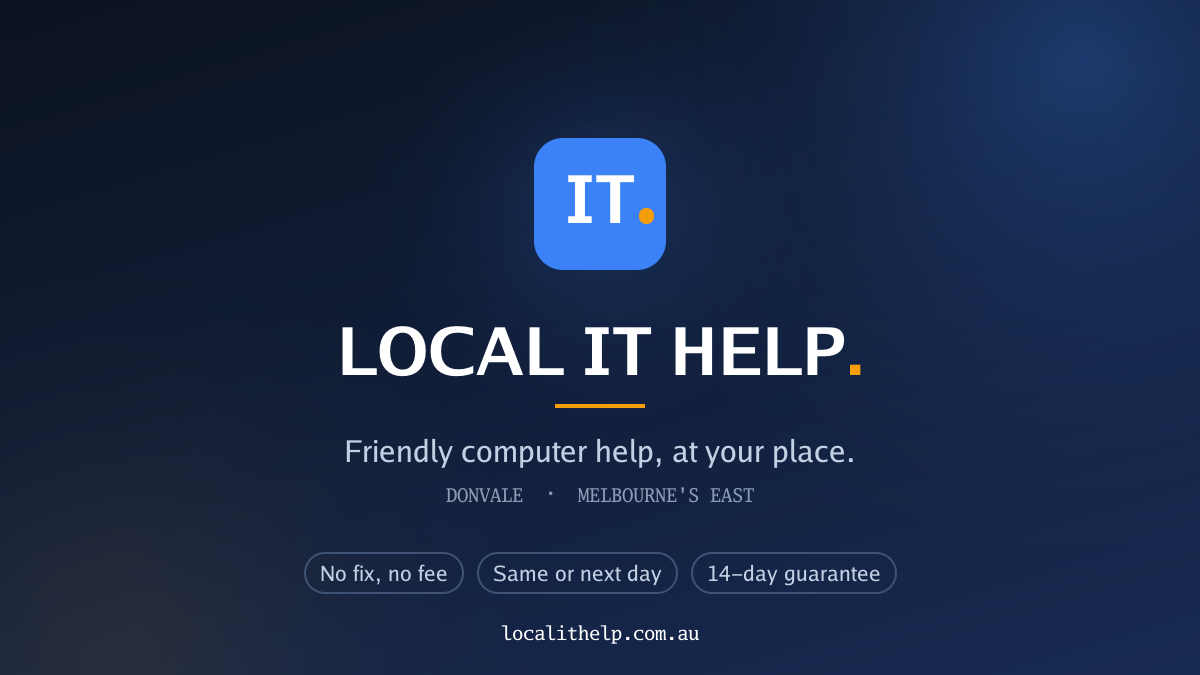
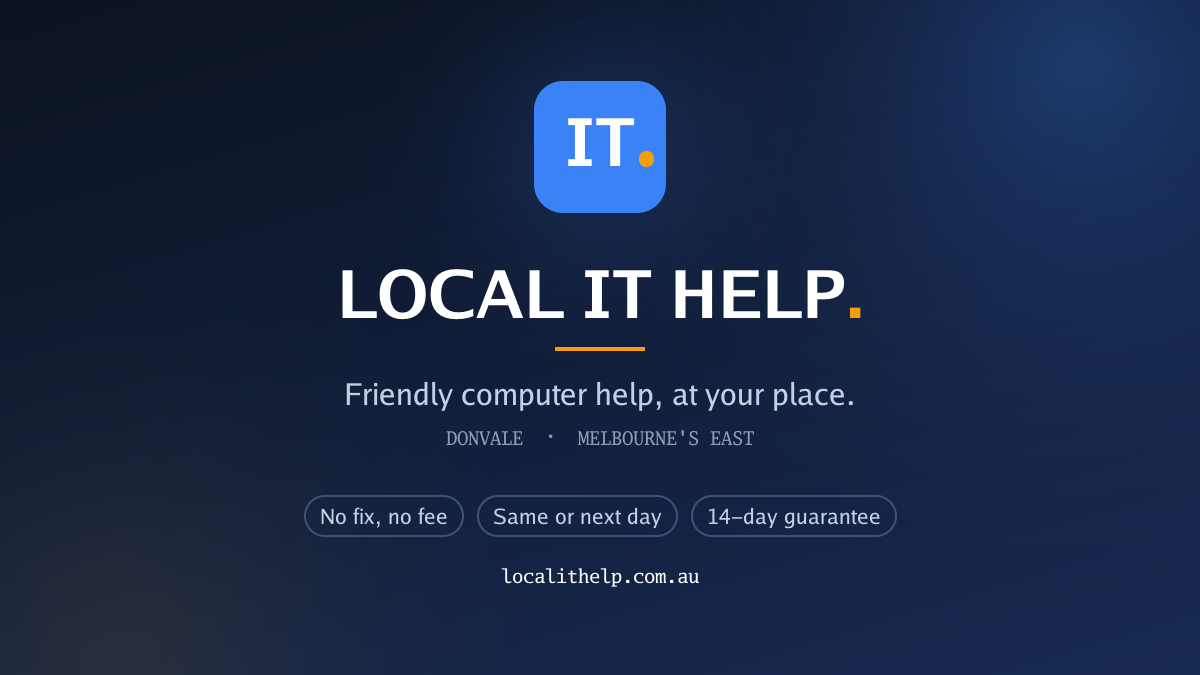
Square image: share the cover's lockup
Photo slot was still the old light left-aligned card with three lines of
services, which looked nothing like the new cover beside it in the same
profile.

Extract brandPlate() so both draw one centred lockup, measured and
centred as a block so it sits right on either canvas shape. The square
runs it at 1.55x — photos are usually seen small, as a thumbnail.

mustFit() now takes the budget rather than reading a cover-only const,
and guards the stack height too. The two slots crop in opposite
directions: a square crop of the 16:9 cover keeps the full height and
only 675px of width, while a 4:3 crop of the square keeps the full width
and only 900px of height.

Changed region(s): [[0.2775, 0.0933, 0.74, 0.6844], [0.2467, 0.7156, 0.74, 0.8711], [0.4317, 0.9333, 0.5858, 0.9644]]

diff --git a/tools/genassets/main.go b/tools/genassets/main.go
@@ -276,74 +276,111 @@ func textC(dst draw.Image, fc font.Face, s string, cx, y int, col color.Color) i
 	return text(dst, fc, s, cx-textWidth(fc, s)/2, y, col)
 }
 
-// coverSafe is the widest any cover element may be. Google Business Profile
-// re-crops the cover per surface, and the worst case is a centred square, which
-// of a 1200×675 image keeps only the middle 675px. Everything is held inside
-// that column with a margin, so no crop can clip a word.
-const coverSafe = 620
-
-// coverImage is the 16:9 cover, sized for Google Business Profile. Unlike
-// ogImage — a link-preview card that is only ever shown whole — this is a
-// full-bleed piece: no card, no border, nothing near an edge that a crop could
-// slice through and leave looking broken.
-func coverImage() *image.RGBA {
-	const W, H = 1200, 675
-	img := image.NewRGBA(image.Rect(0, 0, W, H))
-	gradient(img, navyTop, navyBot)
-	softGlow(img, 1080, 60, 560, brandLt, 0.30)
-	softGlow(img, 120, 660, 480, accentLt, 0.10)
-	softGlow(img, W/2, 205, 250, brandLt, 0.22) // halo behind the mark
-
+// brandPlate draws the centred brand lockup — mark, wordmark, rule, strapline,
+// locality, promise chips and domain — full-bleed on a dark gradient field.
+// Cover and photo differ only in canvas shape and scale, so they share it.
+//
+// safeW and safeH are the narrowest and shortest crops the slot can take, less
+// a margin: everything is held inside them so no crop can clip a word. Google
+// Business Profile re-crops per surface, so nothing is drawn near an edge
+// either — a crop that sliced through a card border would look broken.
+func brandPlate(img *image.RGBA, scale float64, safeW, safeH int) {
+	W, H := img.Bounds().Dx(), img.Bounds().Dy()
 	cx := W / 2
-	kicker := face(gomono.TTF, 19)
-	title := face(gobold.TTF, 66)
-	sub := face(goregular.TTF, 30)
-	small := face(goregular.TTF, 21)
+	s := func(v int) int { return int(float64(v)*scale + 0.5) }
 
-	// The mark, big and centred — the cover is the one slot with room for it.
-	const mark = 132
-	m := iconTile(mark, brandLt, accentLt)
-	draw.Draw(img, image.Rect(cx-mark/2, 138, cx+mark/2, 138+mark), m, image.Point{}, draw.Over)
+	gradient(img, navyTop, navyBot)
+	softGlow(img, float64(W)*0.90, float64(H)*0.09, float64(W)*0.47, brandLt, 0.30)
+	softGlow(img, float64(W)*0.10, float64(H)*0.98, float64(W)*0.40, accentLt, 0.10)
+
+	kicker := face(gomono.TTF, 19*scale)
+	title := face(gobold.TTF, 66*scale)
+	sub := face(goregular.TTF, 30*scale)
+	small := face(goregular.TTF, 21*scale)
+
+	// Offsets down from the top of the mark, at scale 1. The block is measured
+	// and centred as a whole, so it sits right on any canvas shape.
+	const (
+		markH   = 132
+		wordY   = 237 // baselines
+		ruleY   = 266
+		subY    = 324
+		kickY   = 364
+		chipY   = 414 // top of the chip row
+		chipH   = 42
+		domainY = 502
+		stackH  = 512
+	)
+	mustFit(s(stackH), safeH, "stack height")
+	top := (H - s(stackH)) / 2
+	at := func(off int) int { return top + s(off) }
+
+	// The mark, big and centred — these slots have room for it, the favicon doesn't.
+	mark := s(markH)
+	softGlow(img, float64(cx), float64(top+mark/2), float64(mark)*1.9, brandLt, 0.22)
+	draw.Draw(img, image.Rect(cx-mark/2, top, cx+mark/2, top+mark),
+		iconTile(mark, brandLt, accentLt), image.Point{}, draw.Over)
 
 	// Wordmark plus its amber full stop, centred as one unit.
 	word, stop := "LOCAL IT HELP", "."
 	w := textWidth(title, word) + textWidth(title, stop)
-	end := text(img, title, word, cx-w/2, 375, white)
-	text(img, title, stop, end, 375, accentLt)
-	mustFit(w, "wordmark")
+	end := text(img, title, word, cx-w/2, at(wordY), white)
+	text(img, title, stop, end, at(wordY), accentLt)
+	mustFit(w, safeW, "wordmark")
 
 	// A short amber rule ties the wordmark to the strapline.
-	fill(img, image.Rect(cx-45, 404, cx+45, 408), accentLt)
+	fill(img, image.Rect(cx-s(45), at(ruleY), cx+s(45), at(ruleY)+s(4)), accentLt)
 
-	textC(img, sub, "Friendly computer help, at your place.", cx, 462, dimOnDk)
-	textC(img, kicker, "DONVALE  ·  MELBOURNE'S EAST", cx, 502, faintOn)
+	textC(img, sub, "Friendly computer help, at your place.", cx, at(subY), dimOnDk)
+	textC(img, kicker, "DONVALE  ·  MELBOURNE'S EAST", cx, at(kickY), faintOn)
 
 	// Promise chips, centred as a row: outlined rather than filled, so they read
 	// as trim on the dark field instead of competing with the wordmark.
 	chips := []string{"No fix, no fee", "Same or next day", "14-day guarantee"}
-	const gap, padX = 13, 16
+	gap, padX := s(13), s(16)
 	total := gap * (len(chips) - 1)
 	for _, c := range chips {
 		total += textWidth(small, c) + padX*2
 	}
-	mustFit(total, "chip row")
+	mustFit(total, safeW, "chip row")
 	x := cx - total/2
 	for _, c := range chips {
 		bw := textWidth(small, c) + padX*2
-		chipOutline(img, image.Rect(x, 552, x+bw, 594), 21)
-		text(img, small, c, x+padX, 581, dimOnDk)
+		box := image.Rect(x, at(chipY), x+bw, at(chipY)+s(chipH))
+		chipOutline(img, box, float64(s(21)))
+		text(img, small, c, x+padX, box.Max.Y-s(13), dimOnDk)
 		x += bw + gap
 	}
 
-	textC(img, kicker, "localithelp.com.au", cx, 640, white)
+	textC(img, kicker, "localithelp.com.au", cx, at(domainY), white)
+}
+
+// coverImage is the 16:9 cover, sized for Google Business Profile. Unlike
+// ogImage — a link-preview card that is only ever shown whole — this is
+// full-bleed, because the worst case here is a centred square crop, which of a
+// 1200×675 image keeps only the middle 675px.
+func coverImage() *image.RGBA {
+	img := image.NewRGBA(image.Rect(0, 0, 1200, 675))
+	brandPlate(img, 1, 620, 675) // a square crop keeps the full height, so only width binds
+	return img
+}
+
+// squareImage is the 1:1 variant, for the Google Business Profile photos slot.
+// Photos are shown square or cropped to 4:3 landscape — which of a square keeps
+// the middle 900px of height and none of the width — so the height is the tight
+// dimension here, the reverse of the cover. It runs the lockup larger, because
+// photos are usually seen small, as a thumbnail beside the profile.
+func squareImage() *image.RGBA {
+	img := image.NewRGBA(image.Rect(0, 0, 1200, 1200))
+	brandPlate(img, 1.55, 1000, 880)
 	return img
 }
 
 // mustFit fails the build rather than shipping a cover a crop would clip — the
 // wording here changes more often than anyone re-checks the crop.
-func mustFit(w int, what string) {
-	if w > coverSafe {
-		log.Fatalf("cover %s is %dpx wide, over the %dpx square-crop budget", what, w, coverSafe)
+func mustFit(w, safe int, what string) {
+	if w > safe {
+		log.Fatalf("%s is %dpx wide, over the %dpx crop budget", what, w, safe)
 	}
 }
 
@@ -379,47 +416,6 @@ func gradient(dst *image.RGBA, from, to color.RGBA) {
 			})
 		}
 	}
-}
-
-// squareImage is the 1:1 variant, for slots that crop to a square or near it —
-// Google Business Profile photos being the reason it exists. Everything sits in
-// the middle band vertically, so the usual 4:3 crop still shows the whole
-// wordmark rather than lopping the ends off it.
-func squareImage() *image.RGBA {
-	const S = 1200
-	img := image.NewRGBA(image.Rect(0, 0, S, S))
-	fill(img, img.Bounds(), bgDeep)
-	softGlow(img, 1040, 140, 460, accent, 0.18)
-	softGlow(img, 140, 1050, 420, brand, 0.12)
-
-	card := image.Rect(80, 80, S-80, S-80)
-	roundedRect(img, card, 22, surface)
-	fill(img, image.Rect(card.Min.X, card.Min.Y+40, card.Min.X+6, card.Max.Y-40), brand)
-
-	kicker := face(gomono.TTF, 22)
-	title := face(gobold.TTF, 84)
-	sub := face(goregular.TTF, 32)
-	small := face(goregular.TTF, 24)
-
-	x := card.Min.X + 64
-	text(img, kicker, "COMPUTER HELP  ·  DONVALE & MELBOURNE'S EAST", x, 340, textMute)
-
-	end := text(img, title, "LOCAL IT HELP", x, 470, textPri)
-	text(img, title, ".", end, 470, brand)
-
-	text(img, sub, "Friendly computer help, at your place.", x, 545, textSec)
-	text(img, sub, "Email · printers · Wi-Fi · scams · slow PCs · new setups", x, 595, textSec)
-	text(img, sub, "— plus Shopify, websites & custom software.", x, 645, textSec)
-
-	cx := x
-	for _, c := range []string{"No fix, no fee", "Same or next day", "14-day guarantee"} {
-		w := textWidth(small, c)
-		roundedRect(img, image.Rect(cx, 730, cx+w+36, 772), 21, color.RGBA{0xee, 0xf2, 0xf7, 0xff})
-		text(img, small, c, cx+18, 760, textPri)
-		cx += w + 36 + 14
-	}
-	text(img, kicker, "localithelp.com.au", x, 850, brand)
-	return img
 }
 
 func ogImage() *image.RGBA {
